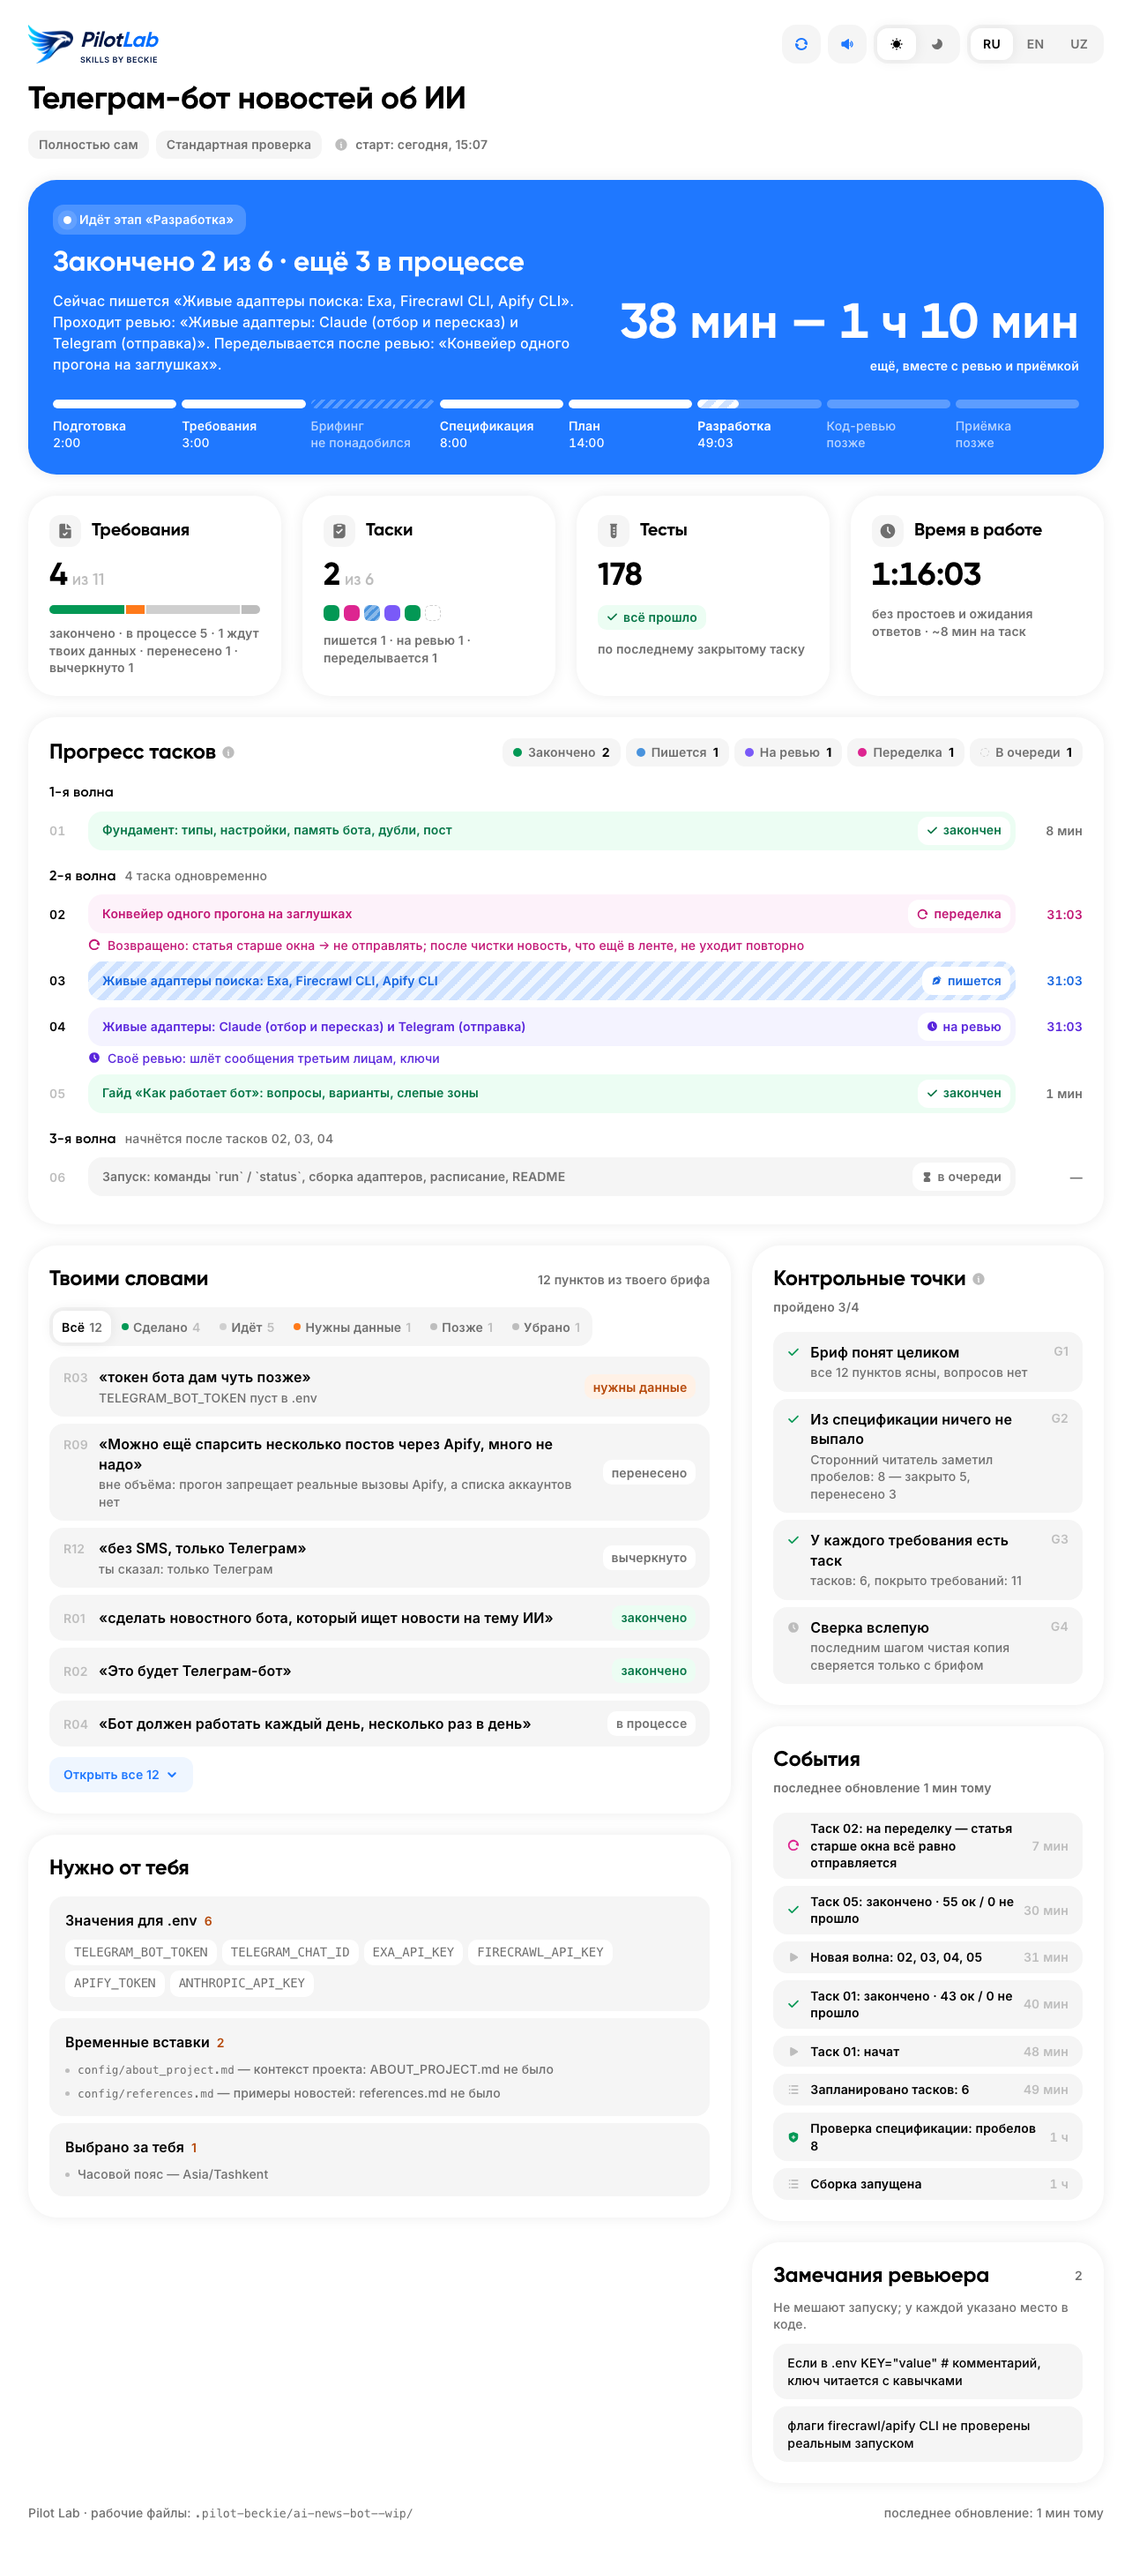
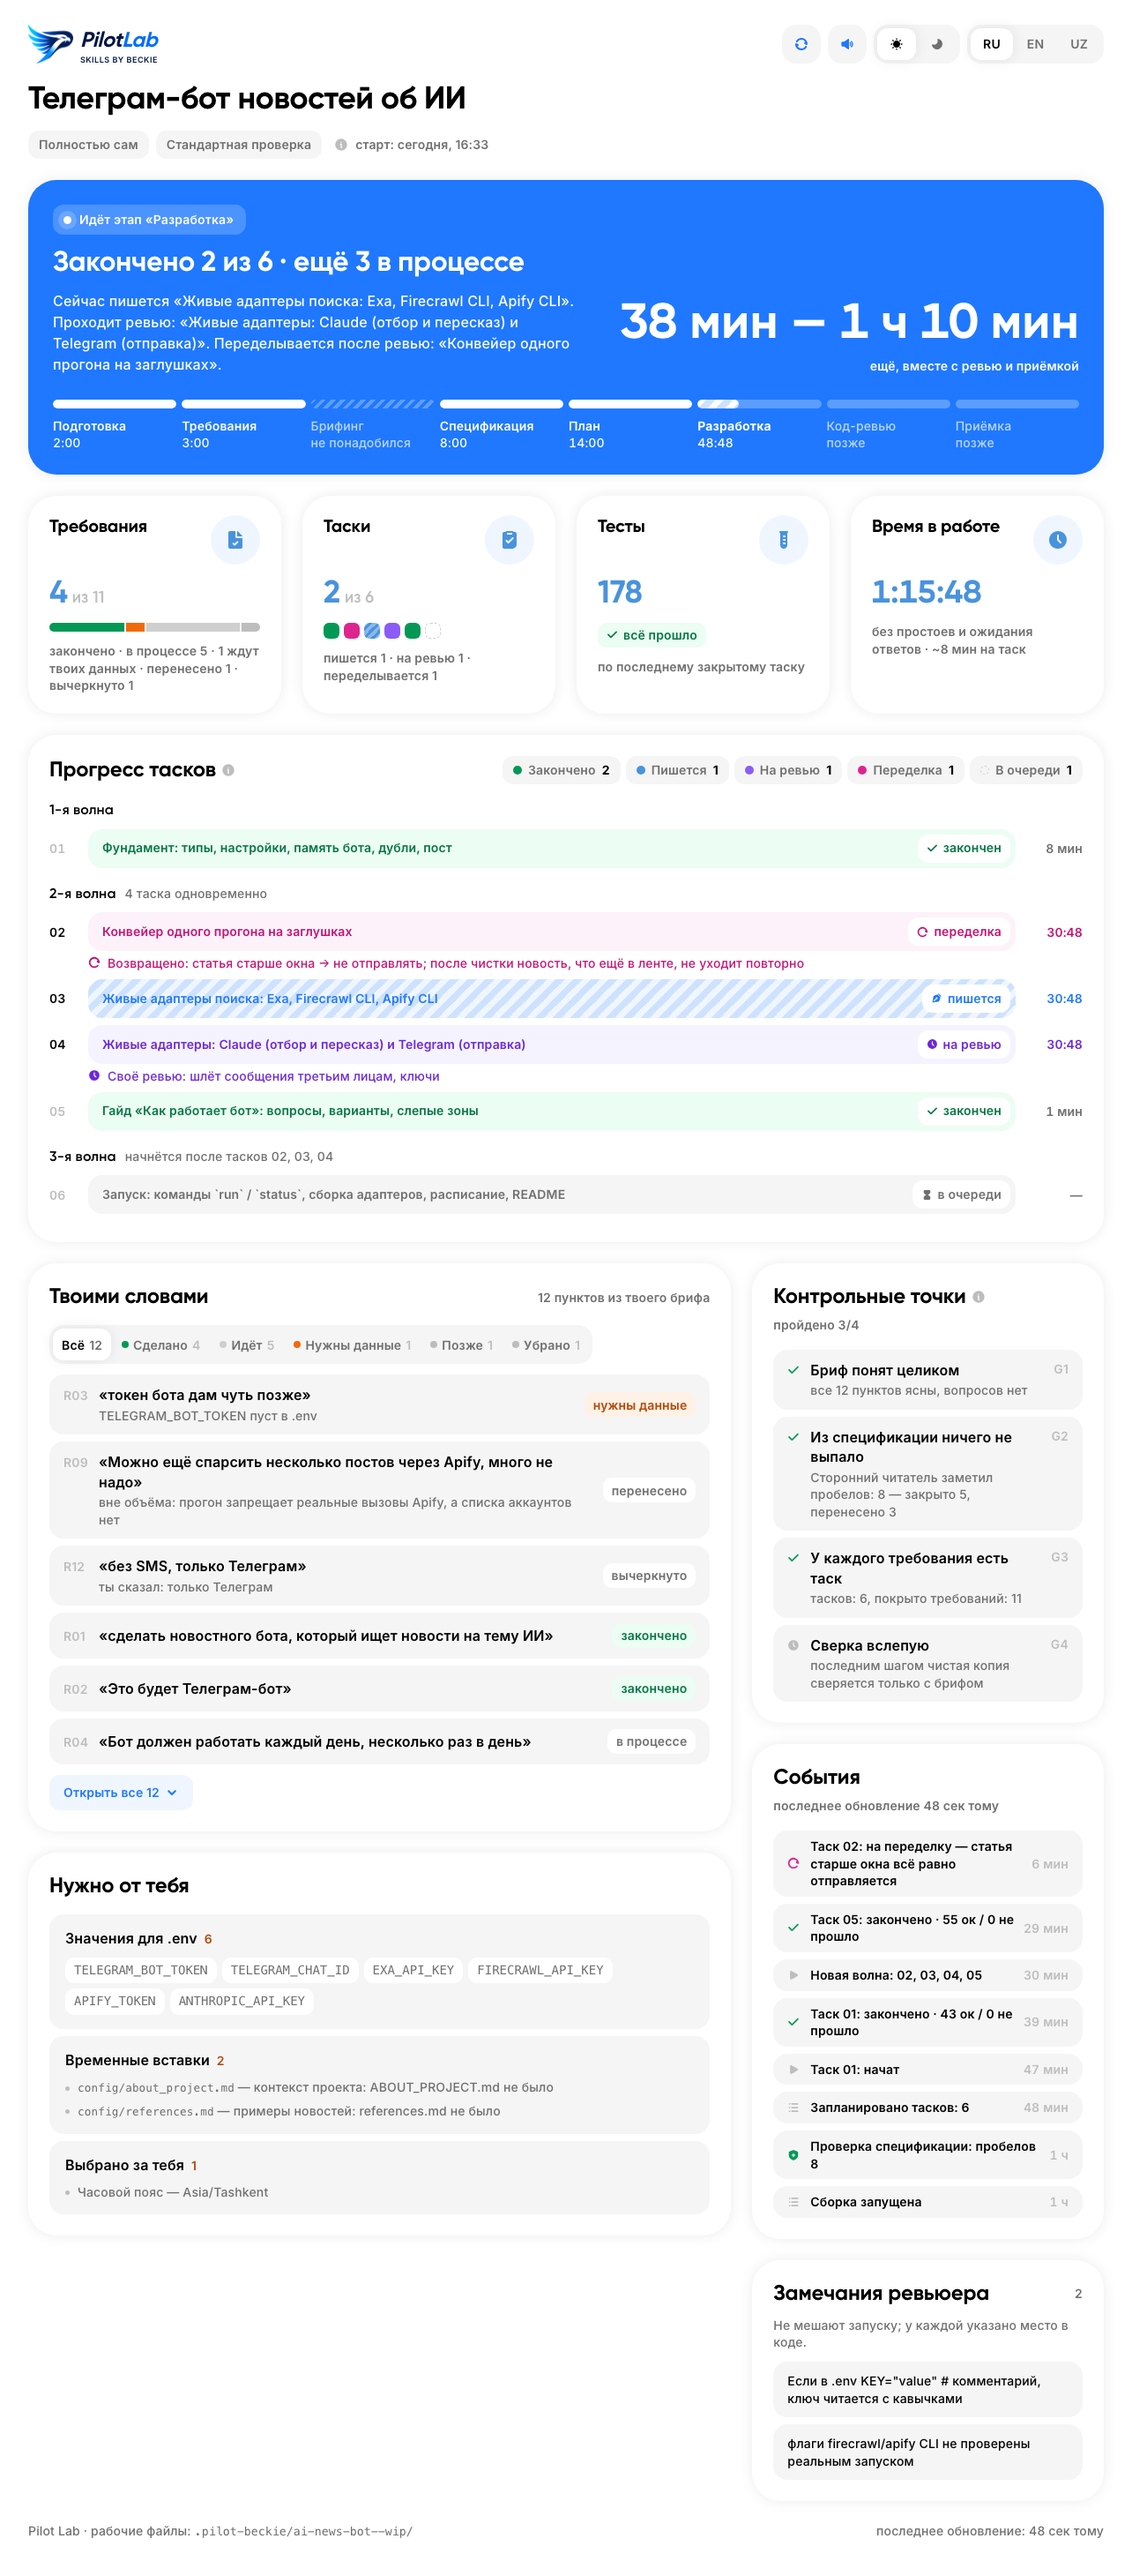
Dashboard: Billz colors for stat tiles and status hues

diff --git a/skills/pilot-beckie/phases/dashboard-template.html b/skills/pilot-beckie/phases/dashboard-template.html
@@ -17,12 +17,13 @@
 --bg:#FFFFFF;--card:#fff;--inset:#F5F5F5;--soft:#F1F3F5;--line:rgba(0,0,0,.06);--line2:rgba(0,0,0,.1);--brand:#001645;--tx:#000;--tx2:#6F6F6F;--mut:#6F6F6F;--quiet:#BDBDBD;
 --hero:#1F78FF;--hero-soft:#EFF6FF;--hero-tx:#4993DD;
 --done:#039855;--done-soft:#ECFDF3;--done-tx:#067647;
---now:#4993DD;--now-on:#fff;--now-soft:#EFF6FF;--now-tx:#1565E0;
---rev:#7A5AF8;--rev-soft:#F4F3FF;--rev-tx:#5925DC;
+--now:#4993DD;--now-on:#fff;--now-soft:#EFF6FF;--now-tx:#1F78FF;
+--rev:#8B5CF6;--rev-soft:#F5F3FF;--rev-tx:#6D28D9;
 --fix:#DD2590;--fix-soft:#FDF2FA;--fix-tx:#C11574;
---ask:#FF7A1A;--ask-on:#fff;--ask-soft:#FFF1E6;--ask-tx:#B54708;
---bad:#F04438;--bad-soft:#FEECEB;--bad-tx:#C4261B;
+--ask:#F06A0A;--ask-on:#fff;--ask-soft:#FFF1E6;--ask-tx:#B54708;
+--bad:#EB5757;--bad-soft:#FDEEEE;--bad-tx:#C93A3A;
 --idle:#CFCFCF;
+--num:#4993DD;--num-soft:#EFF6FF;
 --sh:0 0 16px rgba(0,0,0,.08);--sh-raised:0 0 16px rgba(0,0,0,.08);
 --u2:2px;--u3:3px;--u4:4px;--u5:5px;--u6:6px;--u7:7px;--u8:8px;--u9:9px;--u10:10px;--u12:12px;--u14:14px;--u16:16px;--u18:18px;--u20:20px;--u22:22px;--u24:24px;--u26:26px;--u28:28px;--u32:32px;--u40:40px;
 --rad-pill:999px;--rad-chip:10px;--rad-seg:12px;--rad-row:16px;--rad-card:32px;--rad-sheet:64px;
@@ -38,21 +39,21 @@ color-scheme:light}
 @media (prefers-color-scheme:dark){
 :root:not([data-theme=light]){--bg:#111317;--card:#1A1D22;--inset:#23262C;--soft:#2A2D34;--line:rgba(255,255,255,.07);--line2:rgba(255,255,255,.12);--brand:#F5F6F7;--tx:#F5F6F7;--tx2:#D0D2D6;--mut:#9EA2A9;--quiet:#7A7E86;
 --hero:#3B8AFF;--hero-soft:#1A2A44;--hero-tx:#7DB3FF;--done:#32D583;--done-soft:#0E2A1E;--done-tx:#6CE9A6;--now:#5AA2EA;--now-soft:#15253F;--now-tx:#8FC0F2;
---rev:#9B8AFB;--rev-soft:#24204A;--rev-tx:#BDB4FE;--fix:#F670C7;--fix-soft:#3A1530;--fix-tx:#FAA7E0;--ask:#FF8A33;--ask-on:#fff;--ask-soft:#3A2614;--ask-tx:#FFA463;
---bad:#F35B50;--bad-soft:#40201E;--bad-tx:#FF8B83;--idle:#3E424A;--sh:0 0 0 1px rgba(255,255,255,.05),0 8px 24px -12px rgba(0,0,0,.6);--sh-raised:0 0 0 1px rgba(255,255,255,.05),0 8px 24px -12px rgba(0,0,0,.6);color-scheme:dark}
+--rev:#A78BFA;--rev-soft:#24204A;--rev-tx:#BDB4FE;--fix:#F670C7;--fix-soft:#3A1530;--fix-tx:#FAA7E0;--ask:#FF8A33;--ask-on:#fff;--ask-soft:#3A2614;--ask-tx:#FFA463;
+--bad:#F07171;--bad-soft:#40201E;--bad-tx:#FF8B83;--idle:#3E424A;--num:#7DB3FF;--num-soft:#1A2A44;--sh:0 0 0 1px rgba(255,255,255,.05),0 8px 24px -12px rgba(0,0,0,.6);--sh-raised:0 0 0 1px rgba(255,255,255,.05),0 8px 24px -12px rgba(0,0,0,.6);color-scheme:dark}
 :root:not([data-theme=light]) .eagle-l{display:none!important}:root:not([data-theme=light]) .eagle-d{display:block!important}
 }
 :root[data-theme=dark]{--bg:#111317;--card:#1A1D22;--inset:#23262C;--soft:#2A2D34;--line:rgba(255,255,255,.07);--line2:rgba(255,255,255,.12);--brand:#F5F6F7;--tx:#F5F6F7;--tx2:#D0D2D6;--mut:#9EA2A9;--quiet:#7A7E86;
 --hero:#3B8AFF;--hero-soft:#1A2A44;--hero-tx:#7DB3FF;--done:#32D583;--done-soft:#0E2A1E;--done-tx:#6CE9A6;--now:#5AA2EA;--now-soft:#15253F;--now-tx:#8FC0F2;
---rev:#9B8AFB;--rev-soft:#24204A;--rev-tx:#BDB4FE;--fix:#F670C7;--fix-soft:#3A1530;--fix-tx:#FAA7E0;--ask:#FF8A33;--ask-on:#fff;--ask-soft:#3A2614;--ask-tx:#FFA463;
---bad:#F35B50;--bad-soft:#40201E;--bad-tx:#FF8B83;--idle:#3E424A;--sh:0 0 0 1px rgba(255,255,255,.05),0 8px 24px -12px rgba(0,0,0,.6);--sh-raised:0 0 0 1px rgba(255,255,255,.05),0 8px 24px -12px rgba(0,0,0,.6);color-scheme:dark}
+--rev:#A78BFA;--rev-soft:#24204A;--rev-tx:#BDB4FE;--fix:#F670C7;--fix-soft:#3A1530;--fix-tx:#FAA7E0;--ask:#FF8A33;--ask-on:#fff;--ask-soft:#3A2614;--ask-tx:#FFA463;
+--bad:#F07171;--bad-soft:#40201E;--bad-tx:#FF8B83;--idle:#3E424A;--num:#7DB3FF;--num-soft:#1A2A44;--sh:0 0 0 1px rgba(255,255,255,.05),0 8px 24px -12px rgba(0,0,0,.6);--sh-raised:0 0 0 1px rgba(255,255,255,.05),0 8px 24px -12px rgba(0,0,0,.6);color-scheme:dark}
 :root[data-theme=dark] .eagle-l{display:none!important}:root[data-theme=dark] .eagle-d{display:block!important}
 
 /* ---------- base ---------- */
 *,*::before,*::after{box-sizing:border-box}
 html{text-size-adjust:100%;-webkit-text-size-adjust:100%}
 body{font:600 var(--t-16)/1.4 var(--face);letter-spacing:.15px;color:var(--tx);background:var(--bg);margin:0;overflow-wrap:anywhere;font-synthesis-weight:none;-webkit-font-smoothing:antialiased;-moz-osx-font-smoothing:grayscale}
-::selection{background-color:rgba(31,120,255,.2)}
+::selection{background-color:rgba(73,147,221,.2)}
 :focus-visible{outline-offset:3px;outline:2px solid var(--hero)}
 button{all:unset;box-sizing:border-box;cursor:pointer;font:inherit;letter-spacing:inherit}
 h1,h2,h3,h4,p{margin:0}
@@ -151,10 +152,11 @@ code,.code{letter-spacing:0;font-weight:500;font-family:var(--face-code)}
 /* ---------- stat tiles ---------- */
 .stats{gap:var(--u24);grid-template-columns:repeat(4,minmax(0,1fr));display:grid}
 .stat{padding-block:var(--u22);padding-inline:var(--u24);row-gap:var(--u12);flex-direction:column;display:flex}
-.stat-title{color:var(--tx);letter-spacing:-.2px;font:700 var(--t-24)/28px var(--face-head);column-gap:var(--u12);align-items:center;display:flex}
-.stat-ico{display:inline-flex;flex:none;color:var(--tx2);background:var(--inset);border-radius:var(--rad-seg);padding:var(--u8);inline-size:36px;block-size:36px}
-.stat-ico .ico{inline-size:var(--u20);block-size:var(--u20)}
-.figure{font-variant-numeric:tabular-nums;color:var(--tx);font:700 var(--t-36)/42px var(--face-head)}
+.stat-head{column-gap:var(--u12);justify-content:space-between;align-items:flex-start;display:flex}
+.stat-title{min-inline-size:0;color:var(--tx);letter-spacing:-.2px;font:700 var(--t-24)/28px var(--face-head)}
+.stat-ico{display:inline-flex;flex:none;justify-content:center;align-items:center;color:var(--num);background:var(--num-soft);border-radius:50%;inline-size:56px;block-size:56px}
+.stat-ico .ico{inline-size:var(--u24);block-size:var(--u24)}
+.figure{font-variant-numeric:tabular-nums;color:var(--num);font:700 var(--t-36)/42px var(--face-head)}
 .figure-of{color:var(--quiet);font:600 var(--t-18)/1 var(--face-head)}
 .figure.is-empty{color:var(--quiet)}
 .figure-word{font-size:.6em}
@@ -201,7 +203,7 @@ code,.code{letter-spacing:0;font-weight:500;font-family:var(--face-code)}
 .tline-note{color:var(--kt);font-weight:500;font-size:var(--t-14);align-items:flex-start;column-gap:var(--u8);display:flex;grid-column:2 / span 2}
 .tline-note .ico{margin-block-start:var(--u2);inline-size:var(--u14);block-size:var(--u14)}
 .nothing{color:var(--tx2);font-weight:600;font-size:var(--t-16);padding-block:var(--u16);padding-inline:var(--u18);border-radius:var(--rad-row);background:var(--inset);column-gap:var(--u12);align-items:center;display:flex}
-.nothing .ico{inline-size:var(--u20);block-size:var(--u20)}
+.nothing .ico{color:var(--num);inline-size:var(--u20);block-size:var(--u20)}
 [role=button]{cursor:pointer}
 :is(.tline-bar,.wreq,.sh-line.is-link):hover{filter:brightness(.97)}
 :is(.tline-bar,.wreq,.sh-line.is-link):active{transform:scale(.995)}
@@ -339,9 +341,9 @@ body{font-size:var(--t-14)}
 .p-aside{font-size:var(--t-12)}
 .split,.split-col,.stats{gap:var(--u12)}
 .stat{row-gap:var(--u8);padding:var(--u14)}
-.stat-title{column-gap:var(--u8);line-height:20px;font-size:15px}
-.stat-ico{border-radius:var(--u8);padding:var(--u6);block-size:28px;inline-size:28px}
-.stat-ico .ico{block-size:var(--u16);inline-size:var(--u16)}
+.stat-title{line-height:20px;font-size:15px}
+.stat-ico{block-size:40px;inline-size:40px}
+.stat-ico .ico{block-size:var(--u18);inline-size:var(--u18)}
 .figure{line-height:32px;font-size:26px}
 .stat-note{font-size:var(--t-12)}
 .tkdots{gap:var(--u4)}
@@ -744,7 +746,7 @@ function track(hs){var st=stages();if(!st.length)return '';var c=counts(),n=tick
    default:cls='ph-dim';time=esc(T.ahead)}
   return '<li role="listitem" class="'+cls+'"><div class="ph-bar'+(s.status==='skipped'?' ph-skip':'')+'" aria-hidden="true">'+fill+'</div><div class="ph-name">'+esc(stName(s.id))+'</div><div class="ph-time">'+time+'</div></li>'}).join('')+'</ul>'}
 
-function tile(icon,title,body){return '<div class="panel stat"><div class="stat-title"><span class="stat-ico">'+ic(icon)+'</span><span>'+esc(title)+'</span></div>'+body+'</div>'}
+function tile(icon,title,body){return '<div class="panel stat"><div class="stat-head"><span class="stat-title">'+esc(title)+'</span><span class="stat-ico">'+ic(icon)+'</span></div>'+body+'</div>'}
 function tiles(){var h='',rc=reqCounts(),tk=tickets(),c=counts();
  // requirements
  if(rc.total){var segs=[['done','var(--done)'],['placeholder','var(--ask)'],['wo','var(--idle)'],['deferred','var(--quiet)']].map(function(x){var v=x[0]==='wo'?rc.work+rc.open:rc[x[0]];return v?'<i style="flex:'+v+' 0 0;background:'+x[1]+'"></i>':''}).join('');
